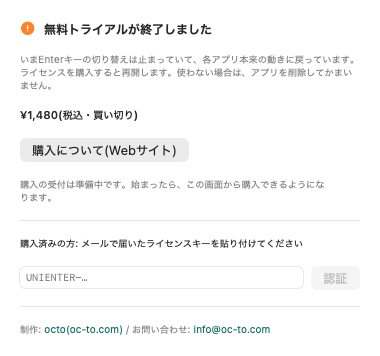
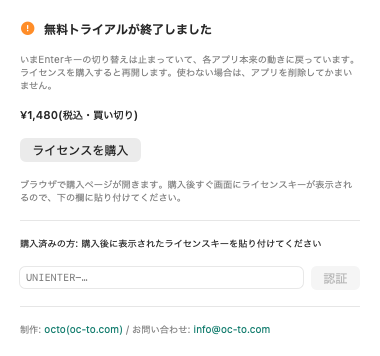
アプリ: ライセンス画面の購入ボタンを有効化(Polarのチェックアウトへ)
- purchaseOpen = true、purchaseURL をLPと同じチェックアウトリンクに
- 購入後の流れ(画面にキーが表示される→貼り付け)を案内し、「メールで届いた」の表記を修正

Changed region(s): [[0.0579, 0.4944, 0.9263, 0.5871], [0.2026, 0.6489, 0.8395, 0.7107], [0.0868, 0.4017, 0.4632, 0.4635]]

diff --git a/UniEnter/UI/LicenseView.swift b/UniEnter/UI/LicenseView.swift
@@ -1,10 +1,11 @@
 import SwiftUI
 
-/// 購入ページのURL(LPの価格欄)。購入はLP経由でPolarのチェックアウトに進む。
-let purchaseURL = URL(string: "https://unienter.oc-to.com/#pricing")!
-/// 購入の受付を始めたら true にする。false の間は「購入」ボタンを出さず、準備中であることを伝える
-/// (押した先のLPが「購入は準備中」だと行き止まりになるため)
-let purchaseOpen = false
+/// 購入ページ(Polarのチェックアウトリンク。LPの「購入する」と同じ)。
+/// 購入後はライセンスキーの表示ページ(license-signing/worker)に移動する
+let purchaseURL = URL(string: "https://buy.polar.sh/polar_cl_zdFJOA7iIWaUzPThWsIjQKyRW0pImM8vfTuhn1sIQLk")!
+/// 購入の受付中か。false の間は「購入」ボタンを出さず、準備中であることを伝える
+/// (2026-09-29 に受付開始)
+let purchaseOpen = true
 
 final class LicenseViewModel: ObservableObject {
     @Published var state: LicenseState
@@ -84,6 +85,10 @@ struct LicenseView: View {
                         NSWorkspace.shared.open(purchaseURL)
                     }
                     .keyboardShortcut(.defaultAction)
+                    Text("ブラウザで購入ページが開きます。購入後すぐ画面にライセンスキーが表示されるので、下の欄に貼り付けてください。")
+                        .font(.caption)
+                        .foregroundColor(.secondary)
+                        .fixedSize(horizontal: false, vertical: true)
                 } else {
                     Button("購入について(Webサイト)") {
                         NSWorkspace.shared.open(purchaseURL)
@@ -96,7 +101,7 @@ struct LicenseView: View {
 
                 Divider()
 
-                Text("購入済みの方: メールで届いたライセンスキーを貼り付けてください")
+                Text("購入済みの方: 購入後に表示されたライセンスキーを貼り付けてください")
                     .font(.caption)
                 HStack {
                     TextField("UNIENTER-…", text: $model.keyInput)

diff --git a/CLAUDE.md b/CLAUDE.md
@@ -117,7 +117,7 @@ cd site && npm run build
    LPに手順セクションを用意して緩和したが、これは対症療法。**公証前に広く告知しないこと**。
    詳細はObsidian Vaultの `30_Notes/UniEnter/UniEnter-先行テストFB分析（Claude版）.md`(同Fable版もあり)
 2. **課金は2026-09-29に稼働開始**: Polar(組織 `oc-to`)のCheckout Link → Worker `https://unienter-license.oc-to.workers.dev`(`license-signing/worker/`)がキーを発行・表示。LPの価格欄に「購入する」、特商法表記 `tokushoho.html` 公開済み。
-   アプリ側の購入ボタンは次のリリースで `LicenseView.swift` の `purchaseOpen = true` にする(公証と同時のv0.3.4予定)。残り(任意): `POLAR_ACCESS_TOKEN`、購入者へのキーのメール送信(Resend)
+   アプリ側も `LicenseView.swift` の `purchaseOpen = true`(購入ボタン→Polarのチェックアウト)に切替済み。ユーザーに届くのは次のリリース(公証と同時のv0.3.4予定)。残り(任意): `POLAR_ACCESS_TOKEN`、購入者へのキーのメール送信(Resend)
 3. リリース手順: `project.yml` の `CFBundleShortVersionString` を上げる → `scripts/release.sh X.Y.Z` → `gh release create vX.Y.Z dist/UniEnter.pkg dist/UniEnter.zip`(publish.shは既存リリースへの添付用)
 4. アプリアイコンはフラット版(ティール地に白の↵、`design/app-icon/` がソース。再生成手順は同READMEを参照)に差し替え済み
 5. Gemini公式MacアプリのbundleID確認(判明したらAppRegistry.aliasesへ)
